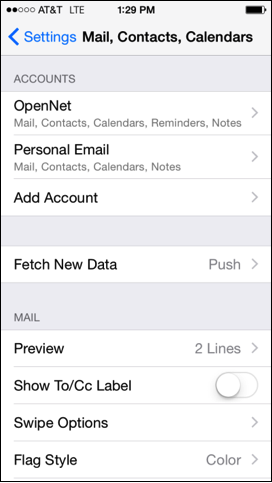
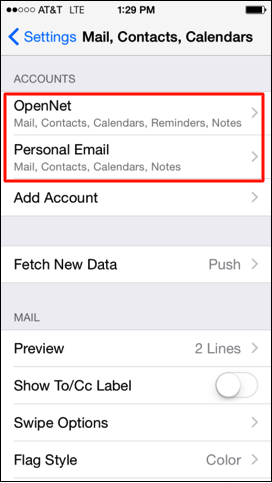
Add table navigation, update content

Changed region(s): [[0.0, 0.1863, 1.0, 0.4037]]

diff --git a/MobileFAQ/www/item1.html b/MobileFAQ/www/item1.html
@@ -16,11 +16,11 @@
             <div class="row" style="padding-bottom: 20px">
                 <div class="col-sm-4">
                     <p>Two accounts are currently configured on the device, Personal Email and OpenNet.</p>
-                    <img src="img/item1_1.png" />
+                    <img src="img/item1_1.png" style="width: 90%" />
                 </div>
                 <div class="col-sm-4">
                     <p>Scroll down to the Mail section and tap <strong>Default Account</strong>. Select <strong>OpenNet</strong>.</p>
-                    <img src="img/item1_2.png" />
+                    <img src="img/item1_2.png" style="width: 90%" />
                 </div>
                 <div class="col-sm-4">
                     <p>To return back to the Mail, Contacts, and Calendars settings, tap the <strong>Blue Arrow</strong> in the top left hand corner.</p>
@@ -29,11 +29,11 @@
             <div class="row" style="padding-bottom: 20px">
                 <div class="col-sm-4">
                     <p>Scroll down to the Contacts section and tap <strong>Default Account</strong>. Select <strong>OpenNet</strong>.</p>
-                    <img src="img/item1_3.png" />
+                    <img src="img/item1_3.png" style="width: 90%" />
                 </div>
                 <div class="col-sm-4">
                     <p>Tap the <strong>Blue Arrow</strong> to return to Settings. Scroll down to the Calendars section and tap <strong>Default Calendar</strong>. Select the calendar listed under <strong>OpenNet</strong>.</p>
-                    <img src="img/item1_4.png" />
+                    <img src="img/item1_4.png" style="width: 90%" />
                 </div>
                 <div class="col-sm-4">
                     <p>Your Default Mail, Contacts, and Calendar are now set to OpenNet.</p>

diff --git a/MobileFAQ/FAQTableViewController.swift b/MobileFAQ/FAQTableViewController.swift
@@ -15,7 +15,9 @@ class FAQTableViewController: UITableViewController {
     
     override func viewDidLoad() {
         super.viewDidLoad()
-
+        
+        navigationItem.title = "FAQs"
+        
         // Load the FAQ manifest
         let path = NSBundle.mainBundle().pathForResource("FAQs", ofType:"plist")
         let dict = NSDictionary(contentsOfFile:path!)
@@ -23,7 +25,7 @@ class FAQTableViewController: UITableViewController {
         faqData = faqList
         
         let cancelButton = UIBarButtonItem(title: "Cancel", style: UIBarButtonItemStyle.Bordered, target: self, action: Selector("cancelEvent"))
-        self.navigationItem.rightBarButtonItem = cancelButton
+        navigationItem.rightBarButtonItem = cancelButton
     }
 
     // MARK: - Table view data source
@@ -50,20 +52,19 @@ class FAQTableViewController: UITableViewController {
         return cell!
     }
     
+    override func tableView(tableView: UITableView, didSelectRowAtIndexPath indexPath: NSIndexPath) {
+        dataViewController.itemController?.rootViewController?.moveToViewControllerAtIndex(indexPath.row)
+        
+        dataViewController.dismissViewControllerAnimated(true, completion: nil)
+        
+    }
+    
     // MARK: - Close Navigation Window
     
     func cancelEvent() {
         dataViewController.dismissViewControllerAnimated(true, completion: nil)
     }
     
-    /*
-    // MARK: - Navigation
-
-    // In a storyboard-based application, you will often want to do a little preparation before navigation
-    override func prepareForSegue(segue: UIStoryboardSegue, sender: AnyObject?) {
-        // Get the new view controller using [segue destinationViewController].
-        // Pass the selected object to the new view controller.
-    }
-    */
+    
 
 }

diff --git a/MobileFAQ/RootViewController.swift b/MobileFAQ/RootViewController.swift
@@ -45,11 +45,20 @@ class RootViewController: UIViewController, UIPageViewControllerDelegate {
         // In more complex implementations, the model controller may be passed to the view controller.
         if _modelController == nil {
             _modelController = ModelController()
+            _modelController?.rootViewController = self
         }
         return _modelController!
     }
     
     var _modelController: ModelController? = nil
+    
+    func moveToViewControllerAtIndex(index: Int) {
+        
+        let viewController = modelController.viewControllerAtIndex(index, storyboard: storyboard!)!
+        
+        pageViewController?.setViewControllers([viewController], direction: UIPageViewControllerNavigationDirection.Forward, animated: true, completion: nil)
+        
+    }
     
     // MARK: - UIPageViewController delegate methods
     

diff --git a/MobileFAQ/ModelController.swift b/MobileFAQ/ModelController.swift
@@ -11,6 +11,7 @@ import UIKit
 
 class ModelController: NSObject, UIPageViewControllerDataSource {
     
+    var rootViewController: RootViewController?
     var pageData = Array<Dictionary<String, String>>()
     
     override init() {
